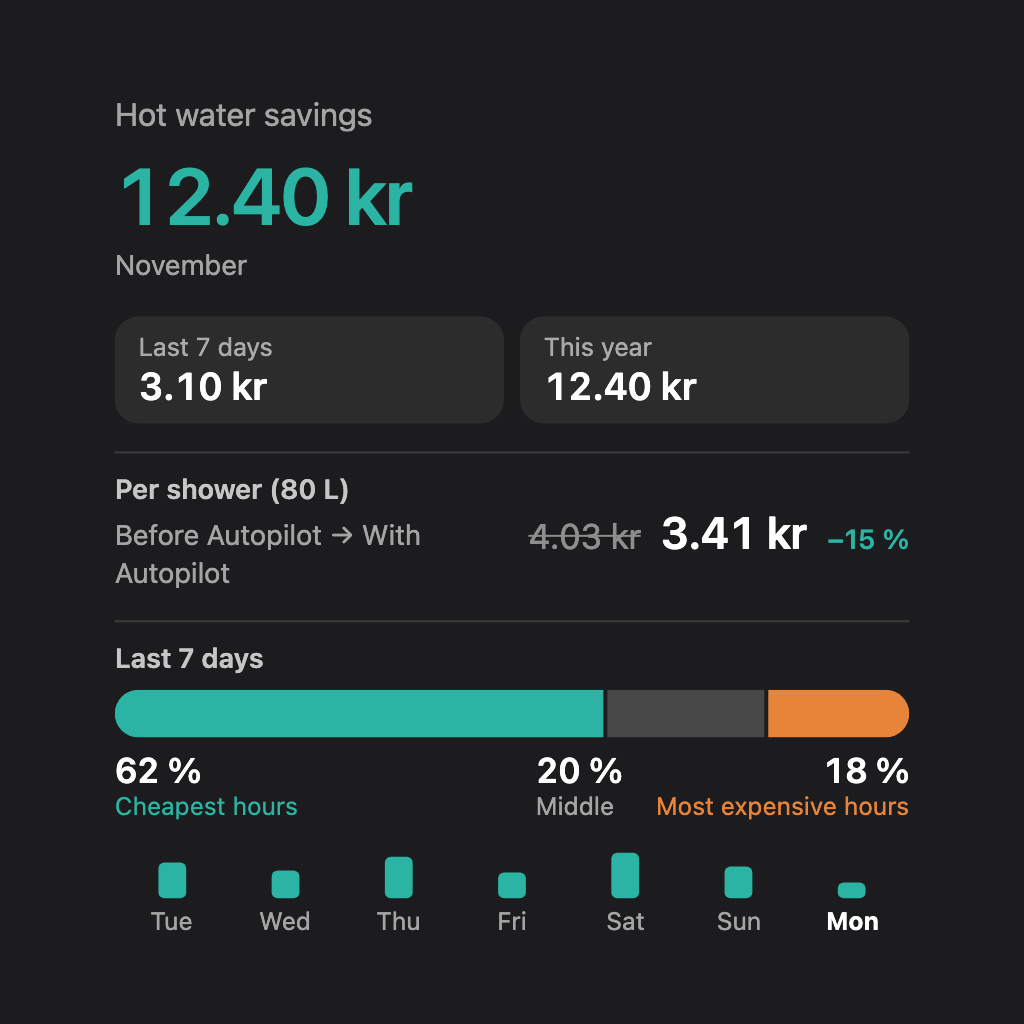
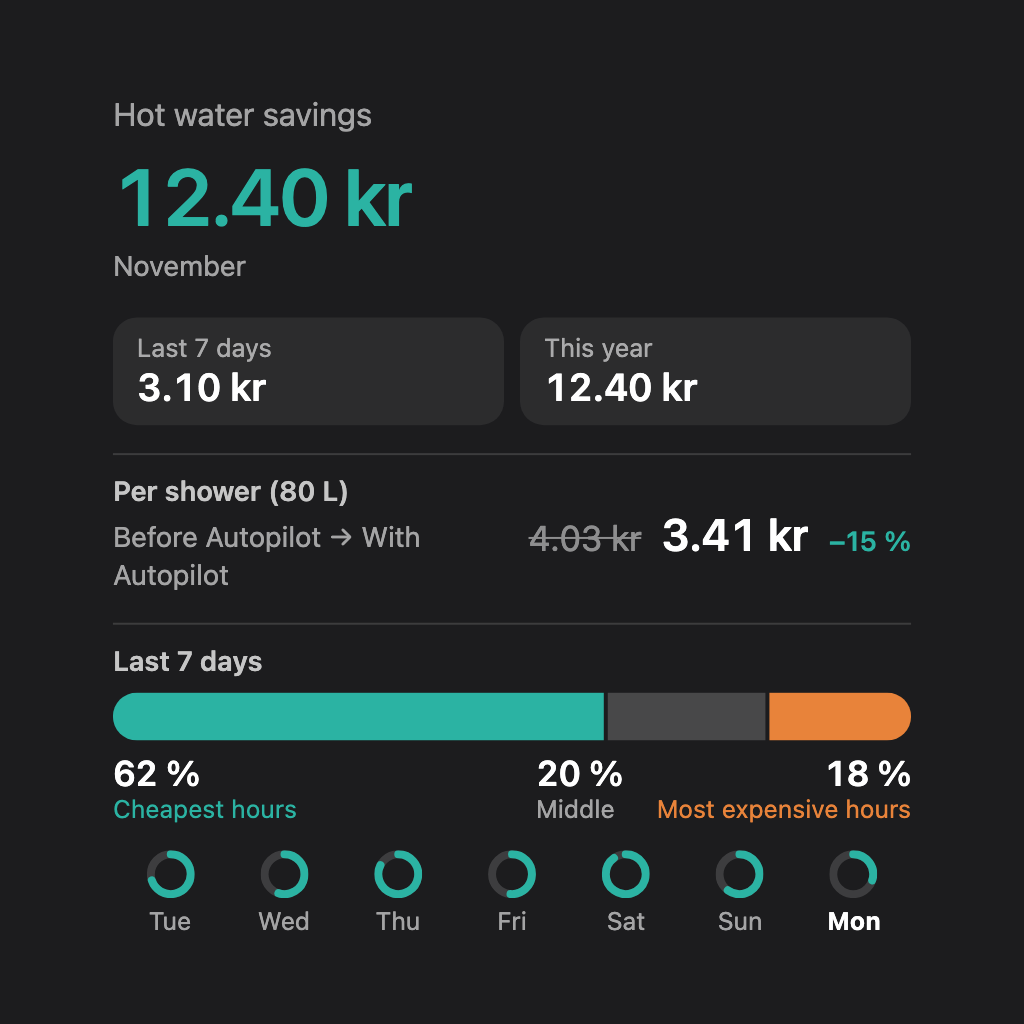
Hot water savings: the ring a day is back, under the new bar

diff --git a/widgets/savings/public/index.html b/widgets/savings/public/index.html
@@ -37,9 +37,7 @@
       .sv-now { font-size: 1.4em; font-weight: 600; font-variant-numeric: tabular-nums; }
       .sv-change { font-size: 0.86em; font-weight: 600; }
       .sv-days { display: grid; margin: 12px 0 0; text-align: center; font-size: 0.78em; }
-      .sv-day-col { height: 26px; display: flex; align-items: flex-end; justify-content: center; margin-bottom: 4px; }
-      .sv-day-bar { width: 14px; border-radius: 3px; background: var(--sv-cheap); }
-      .sv-day-bar.none { height: 3px; background: var(--sv-rule); }
+      .sv-day-col { display: flex; justify-content: center; margin-bottom: 4px; }
       .sv-day-k { opacity: 0.6; }
       .sv-day-k.today { opacity: 1; font-weight: 700; }
       .sv-legend { display: flex; flex-wrap: wrap; gap: 4px 14px; font-size: 0.78em; opacity: 0.7; margin-top: 12px; }
@@ -255,16 +253,27 @@
           root.appendChild(el('div', 'sv-sub', c.title));
           if (c.value) root.appendChild(el('div', 'sv-caption homey-text-small', c.value + (c.note ? ' · ' + c.note : '')));
           root.appendChild(tierBar(c.tiers, [l.cheap, l.middle, l.dear]));
-          // A bar a day, as tall as that day's share in the cheapest third. A stub: no record, or no heat.
+          // A ring a day, filled to that day's share in the cheapest third. An empty ring: no
+          // record, or no heat; fainter when there is no record at all.
           if (c.days && c.days.length) {
-            var days = el('div', 'sv-days');
+            var days = el('div', 'sv-days'), R = 10, SW = 4, S = 2 * R + SW, m = S / 2;
             days.style.gridTemplateColumns = 'repeat(' + c.days.length + ', 1fr)';
             c.days.forEach(function (d, k) {
-              var col = el('div'), well = el('div', 'sv-day-col'), bar = el('div', 'sv-day-bar');
-              if (d.share === undefined || d.share <= 0) bar.className += ' none';
-              else bar.style.height = Math.max(3, Math.round(26 * Math.min(1, d.share))) + 'px';
-              well.appendChild(bar); col.appendChild(well);
-              col.appendChild(el('div', 'sv-day-k' + (k === c.days.length - 1 ? ' today' : ''), d.label));
+              var col = el('div'), well = el('div', 'sv-day-col');
+              var ring = svgEl('svg', {viewBox: '0 0 ' + S + ' ' + S, width: S, height: S, role: 'img'});
+              ring.appendChild(svgEl('circle', {cx: m, cy: m, r: R, fill: 'none', stroke: 'currentColor', 'stroke-opacity': d.share === undefined ? 0.08 : 0.15, 'stroke-width': SW}));
+              if (d.share !== undefined && d.share > 0) {
+                if (d.share >= 0.999) ring.appendChild(svgEl('circle', {cx: m, cy: m, r: R, fill: 'none', stroke: 'var(--sv-cheap)', 'stroke-width': SW}));
+                else {
+                  var t = d.share * 2 * Math.PI;
+                  ring.appendChild(svgEl('path', {d: 'M' + m + ' ' + (m - R) + ' A' + R + ' ' + R + ' 0 ' + (t > Math.PI ? 1 : 0) + ' 1 ' + (m + R * Math.sin(t)) + ' ' + (m - R * Math.cos(t)),
+                    fill: 'none', stroke: 'var(--sv-cheap)', 'stroke-width': SW, 'stroke-linecap': 'round'}));
+                }
+              }
+              well.appendChild(ring); col.appendChild(well);
+              var label = el('div', 'sv-day-k' + (k === c.days.length - 1 ? ' today' : ''), d.label);
+              if (d.share === undefined) label.style.opacity = 0.3;
+              col.appendChild(label);
               days.appendChild(col);
             });
             root.appendChild(days);

diff --git a/widgets/savings_hotwater/public/index.html b/widgets/savings_hotwater/public/index.html
@@ -37,9 +37,7 @@
       .sv-now { font-size: 1.4em; font-weight: 600; font-variant-numeric: tabular-nums; }
       .sv-change { font-size: 0.86em; font-weight: 600; }
       .sv-days { display: grid; margin: 12px 0 0; text-align: center; font-size: 0.78em; }
-      .sv-day-col { height: 26px; display: flex; align-items: flex-end; justify-content: center; margin-bottom: 4px; }
-      .sv-day-bar { width: 14px; border-radius: 3px; background: var(--sv-cheap); }
-      .sv-day-bar.none { height: 3px; background: var(--sv-rule); }
+      .sv-day-col { display: flex; justify-content: center; margin-bottom: 4px; }
       .sv-day-k { opacity: 0.6; }
       .sv-day-k.today { opacity: 1; font-weight: 700; }
       .sv-legend { display: flex; flex-wrap: wrap; gap: 4px 14px; font-size: 0.78em; opacity: 0.7; margin-top: 12px; }
@@ -255,16 +253,27 @@
           root.appendChild(el('div', 'sv-sub', c.title));
           if (c.value) root.appendChild(el('div', 'sv-caption homey-text-small', c.value + (c.note ? ' · ' + c.note : '')));
           root.appendChild(tierBar(c.tiers, [l.cheap, l.middle, l.dear]));
-          // A bar a day, as tall as that day's share in the cheapest third. A stub: no record, or no heat.
+          // A ring a day, filled to that day's share in the cheapest third. An empty ring: no
+          // record, or no heat; fainter when there is no record at all.
           if (c.days && c.days.length) {
-            var days = el('div', 'sv-days');
+            var days = el('div', 'sv-days'), R = 10, SW = 4, S = 2 * R + SW, m = S / 2;
             days.style.gridTemplateColumns = 'repeat(' + c.days.length + ', 1fr)';
             c.days.forEach(function (d, k) {
-              var col = el('div'), well = el('div', 'sv-day-col'), bar = el('div', 'sv-day-bar');
-              if (d.share === undefined || d.share <= 0) bar.className += ' none';
-              else bar.style.height = Math.max(3, Math.round(26 * Math.min(1, d.share))) + 'px';
-              well.appendChild(bar); col.appendChild(well);
-              col.appendChild(el('div', 'sv-day-k' + (k === c.days.length - 1 ? ' today' : ''), d.label));
+              var col = el('div'), well = el('div', 'sv-day-col');
+              var ring = svgEl('svg', {viewBox: '0 0 ' + S + ' ' + S, width: S, height: S, role: 'img'});
+              ring.appendChild(svgEl('circle', {cx: m, cy: m, r: R, fill: 'none', stroke: 'currentColor', 'stroke-opacity': d.share === undefined ? 0.08 : 0.15, 'stroke-width': SW}));
+              if (d.share !== undefined && d.share > 0) {
+                if (d.share >= 0.999) ring.appendChild(svgEl('circle', {cx: m, cy: m, r: R, fill: 'none', stroke: 'var(--sv-cheap)', 'stroke-width': SW}));
+                else {
+                  var t = d.share * 2 * Math.PI;
+                  ring.appendChild(svgEl('path', {d: 'M' + m + ' ' + (m - R) + ' A' + R + ' ' + R + ' 0 ' + (t > Math.PI ? 1 : 0) + ' 1 ' + (m + R * Math.sin(t)) + ' ' + (m - R * Math.cos(t)),
+                    fill: 'none', stroke: 'var(--sv-cheap)', 'stroke-width': SW, 'stroke-linecap': 'round'}));
+                }
+              }
+              well.appendChild(ring); col.appendChild(well);
+              var label = el('div', 'sv-day-k' + (k === c.days.length - 1 ? ' today' : ''), d.label);
+              if (d.share === undefined) label.style.opacity = 0.3;
+              col.appendChild(label);
               days.appendChild(col);
             });
             root.appendChild(days);
